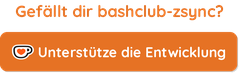
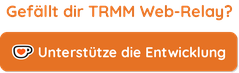
Handbuch: Ko-fi-Block mit dem richtigen Projektnamen
Das Bild stammte aus bashclub-zsync und fragte „Gefällt dir
bashclub-zsync?“. Neu gezeichnet mit kofi-button.py, Befehl in den
Regeln für Autoren.

Changed region(s): [[0.0, 0.0548, 0.9958, 0.3014]]

diff --git a/docs/handbuch/README.md b/docs/handbuch/README.md
@@ -59,7 +59,11 @@ Das Handbuch beschreibt die aktuelle Version (siehe `_collection.md`). Neue Funk
 nächste Bereich), der Hinweis auf die Quelle; davor der Ko-fi-Block (Tabelle mit einer zentrierten Spalte:
 `kofi-block.png` mit Frage und Knopf, darunter der Link). Die Bilder (`kofi-block.png`, `kofi-button.png`, englisch
 `kofi-button-en.png` für die README) zeichnet `kofi-button.py` im Stil des Ko-fi-Widgets, mit Text, Farbe und Frage
-als Argumenten. Aufbereiten:
+als Argumenten. Den Block für dieses Handbuch erzeugt:
+```bash
+docs/handbuch/kofi-button.py docs/handbuch/kofi-block.png "Unterstütze die Entwicklung" "#E67224" "Gefällt dir TRMM Web-Relay?"
+```
+Aufbereiten:
 ```bash
 docs/handbuch/render.py list
 docs/handbuch/render.py render docs/handbuch/02-konzept/02-ablauf.md
